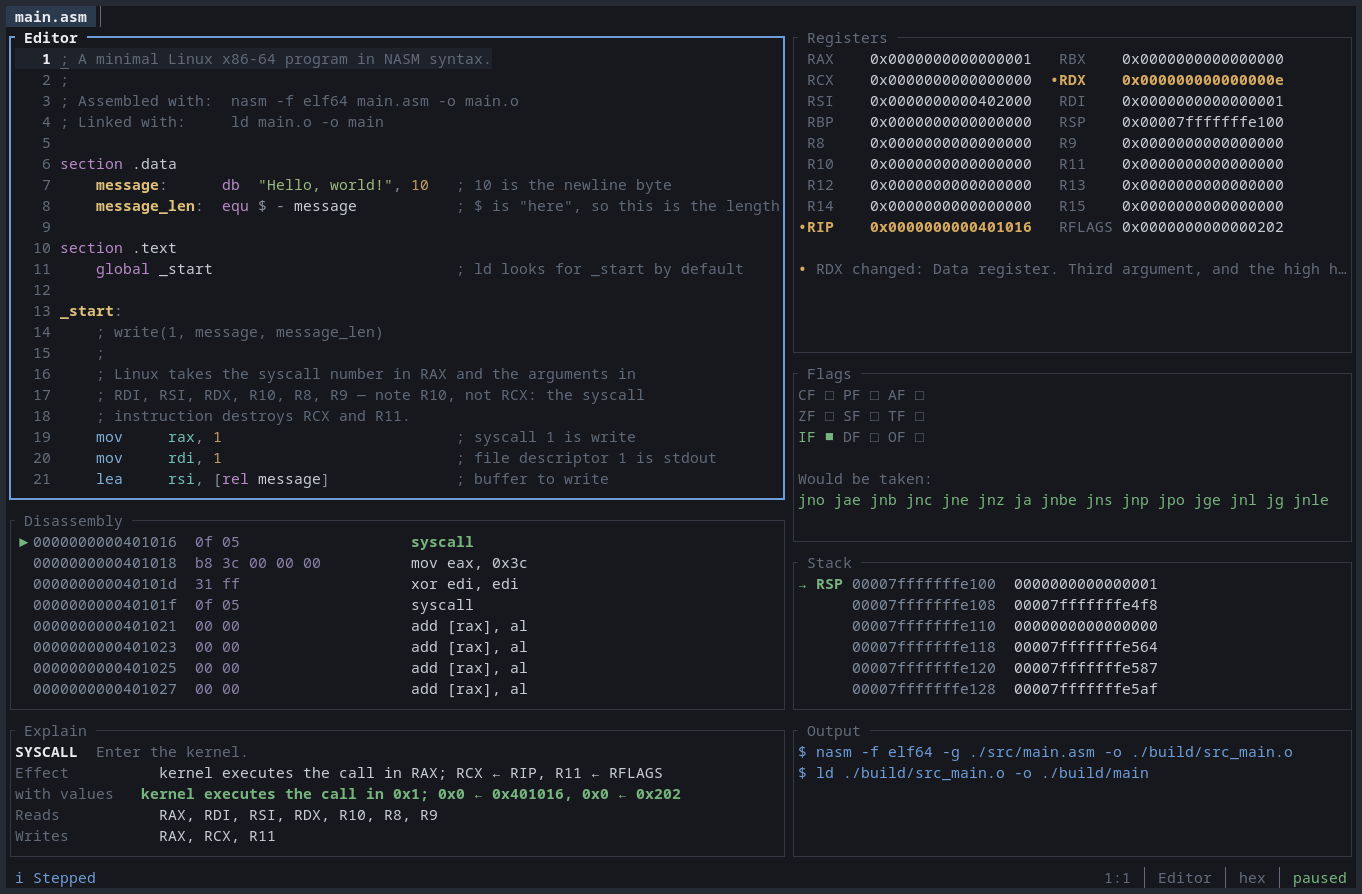
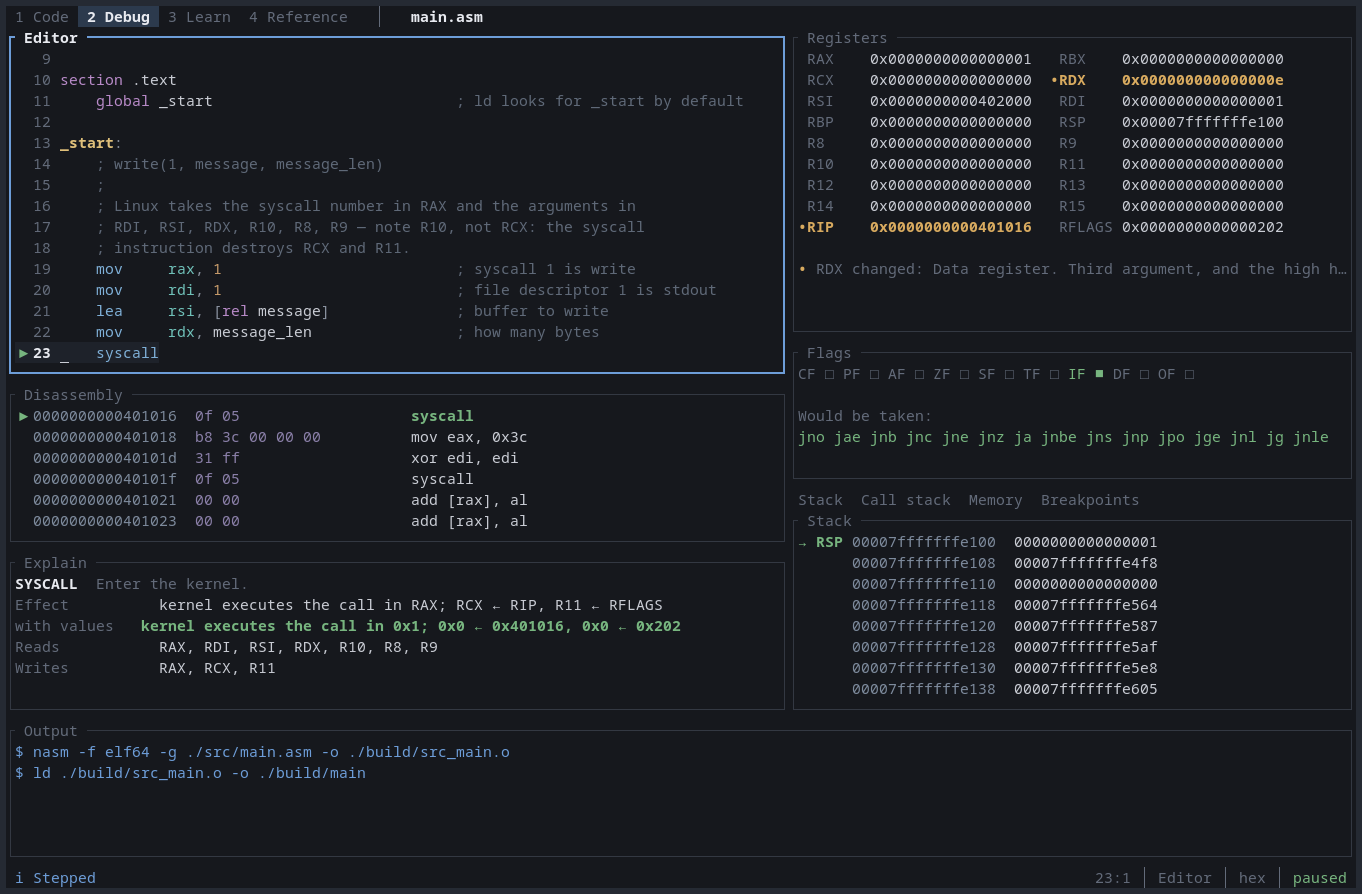
docs(readme): show each page as a screenshot of the running program

diff --git a/README.md b/README.md
@@ -54,12 +54,12 @@ This is an honest account of what works today.
 | GDB/MI transport, breakpoints, stepping, registers, memory | Working |
 | Disassembler: ELF inspection and x86-64 decoding | Working |
 | Instruction explainer, syscall database, flag analysis | Working |
-| Terminal UI: panels, responsive layout, command palette | Working |
+| Terminal UI: pages, responsive layout, command palette | Working |
 | Reverse execution: stepping and running backwards | Working |
 | Learning mode and the scratchpad | Working |
 | Copy and paste, including the system clipboard over OSC 52 | Working |
 
-Everything above is covered by the test suite — 941 tests, including ones that
+Everything above is covered by the test suite — 971 tests, including ones that
 assemble and run real programs, drive a real GDB, and check every answer in the
 learning material against the processor.
 
@@ -131,47 +131,65 @@ Press <kbd>F6</kbd> to assemble it, <kbd>F5</kbd> to run it, <kbd>F9</kbd> on a
 line to set a breakpoint, and <kbd>F7</kbd> to step one instruction at a time
 while you watch the registers move.
 
-## Screen layout
+## The four pages
 
-<img src="assets/screenshot-debug.png" alt="ratasm paused four instructions into a program" width="100%">
+The interface is four pages, each holding the panels for one activity, named
+along the top with the number that opens it. <kbd>Tab</kbd> moves between the
+panels of the page you are on — so it stays a navigation key rather than a
+search through fourteen panels.
 
-The program above is the one `ratasm new` writes, paused on its `syscall` after
-four presses of <kbd>F7</kbd>. Everything on screen is live: RDX is highlighted
-because that instruction changed it, the flags panel lists the conditional
-jumps that would be taken as the flags stand, and the explanation reads the
-real operands — `kernel executes the call in 0x1` is RAX's actual value, not an
-example.
+### <kbd>Alt</kbd>+<kbd>1</kbd> — Code
 
-Panels adapt to the terminal. Below roughly 100 columns they collapse into tabs
-rather than being squeezed into uselessness. The editor, registers, flags,
-stack, call stack, memory, disassembly, breakpoints, build output, instruction
-explanation, syscall finder, symbol explorer, scratchpad and learning panel are
-all panels; <kbd>Tab</kbd> cycles between them.
+<img src="assets/screenshot-code.png" alt="the code page: editor, project files, build output" width="100%">
 
-### The scratchpad
+Writing and building. The editor gets most of the screen, the project's files
+and symbols sit beside it, and the build output runs along the bottom with the
+exact `nasm` and `ld` commands that ran.
 
-<img src="assets/screenshot-scratchpad.png" alt="the scratchpad running add rax, rbx" width="790">
+### <kbd>Alt</kbd>+<kbd>2</kbd> — Debug
 
-<kbd>F2</kbd> opens a place to try one instruction without making a project.
-Type `rax=1` to set a starting value and `add rax, rbx` to run it; ratasm
-assembles a small program, runs it under GDB and reports what actually changed.
-Nothing is simulated — including `PF=1` above, which is set because 3 has an
-even number of one bits.
+<img src="assets/screenshot-debug.png" alt="the debug page, paused four instructions into a program" width="100%">
+
+Watching the machine. The program above is the one `ratasm new` writes, paused
+on its `syscall` after four presses of <kbd>F7</kbd>. Everything on screen is
+live: the editor has followed execution to line 23, RDX is highlighted because
+that instruction changed it, the flag panel lists the conditional jumps that
+would be taken as the flags stand, and the explanation reads the real operands
+— `kernel executes the call in 0x1` is RAX's actual value, not an example.
+
+Starting a session opens this page, and so does stopping at a breakpoint. The
+strip above the stack names the panels sharing that slot: the call stack, the
+memory view and the breakpoint list.
+
+### <kbd>Alt</kbd>+<kbd>3</kbd> — Learn
+
+<img src="assets/screenshot-learn.png" alt="the learn page: a question, the scratchpad, and the instruction explained" width="100%">
+
+Lessons on the registers, the System V ABI, the stack, the flags and the
+syscall convention, followed by questions about what a given instruction leaves
+behind. A wrong answer stays on the question and shows the working rather than
+moving on.
+
+Beside it is the scratchpad: type `rax=1` to set a starting value and
+`add rax, rbx` to run it. ratasm assembles a small program, runs it under GDB
+and reports what actually changed — including `PF=1` above, set because 3 has
+an even number of one bits. Nothing is simulated, and every answer in the
+material is checked against a real processor by the test suite.
 
 The snippet is assembled and executed natively on your machine. It is not a
 sandbox, and the panel says so.
 
-### Learning mode
+### <kbd>Alt</kbd>+<kbd>4</kbd> — Reference
 
-<img src="assets/screenshot-learning.png" alt="a learning-mode question answered correctly" width="790">
+<img src="assets/screenshot-reference.png" alt="the reference page: the write syscall and its NASM example" width="100%">
 
-<kbd>F1</kbd> opens lessons on the registers, the System V ABI, the stack, the
-flags and the syscall convention, followed by questions about what a given
-instruction leaves behind. A wrong answer stays on the question and shows the
-working rather than moving on.
+Looking things up. All 385 Linux system calls are searchable by name or number,
+with the register each argument goes in and a NASM example to copy. Type an
+instruction name instead and the panel beside it explains that.
 
-Every stated answer is checked against a real processor by the test suite, so
-the material cannot drift away from what your machine actually does.
+Panels adapt to the terminal. Below roughly 120 columns a page keeps its main
+panel and puts the rest behind a tab strip; below 80 it shows one at a time,
+rather than squeezing a register view into a width where it shows nothing.
 
 ## Keyboard shortcuts
 
@@ -194,8 +212,8 @@ the material cannot drift away from what your machine actually does.
 | <kbd>Ctrl</kbd>+<kbd>G</kbd> | Go to line or address |
 | <kbd>Ctrl</kbd>+<kbd>K</kbd> | Syscall finder |
 | <kbd>Ctrl</kbd>+<kbd>Q</kbd> | Quit |
-| <kbd>Tab</kbd> / <kbd>Shift</kbd>+<kbd>Tab</kbd> | Next / previous panel (indent / dedent in the editor) |
-| <kbd>Alt</kbd>+<kbd>1</kbd>…<kbd>9</kbd> | Focus a panel directly |
+| <kbd>Tab</kbd> / <kbd>Shift</kbd>+<kbd>Tab</kbd> | Next / previous panel on this page (indent / dedent in the editor) |
+| <kbd>Alt</kbd>+<kbd>1</kbd>…<kbd>4</kbd> | Open a page |
 
 All of them are configurable, and conflicting bindings are reported at start-up
 rather than silently shadowing one another. See
